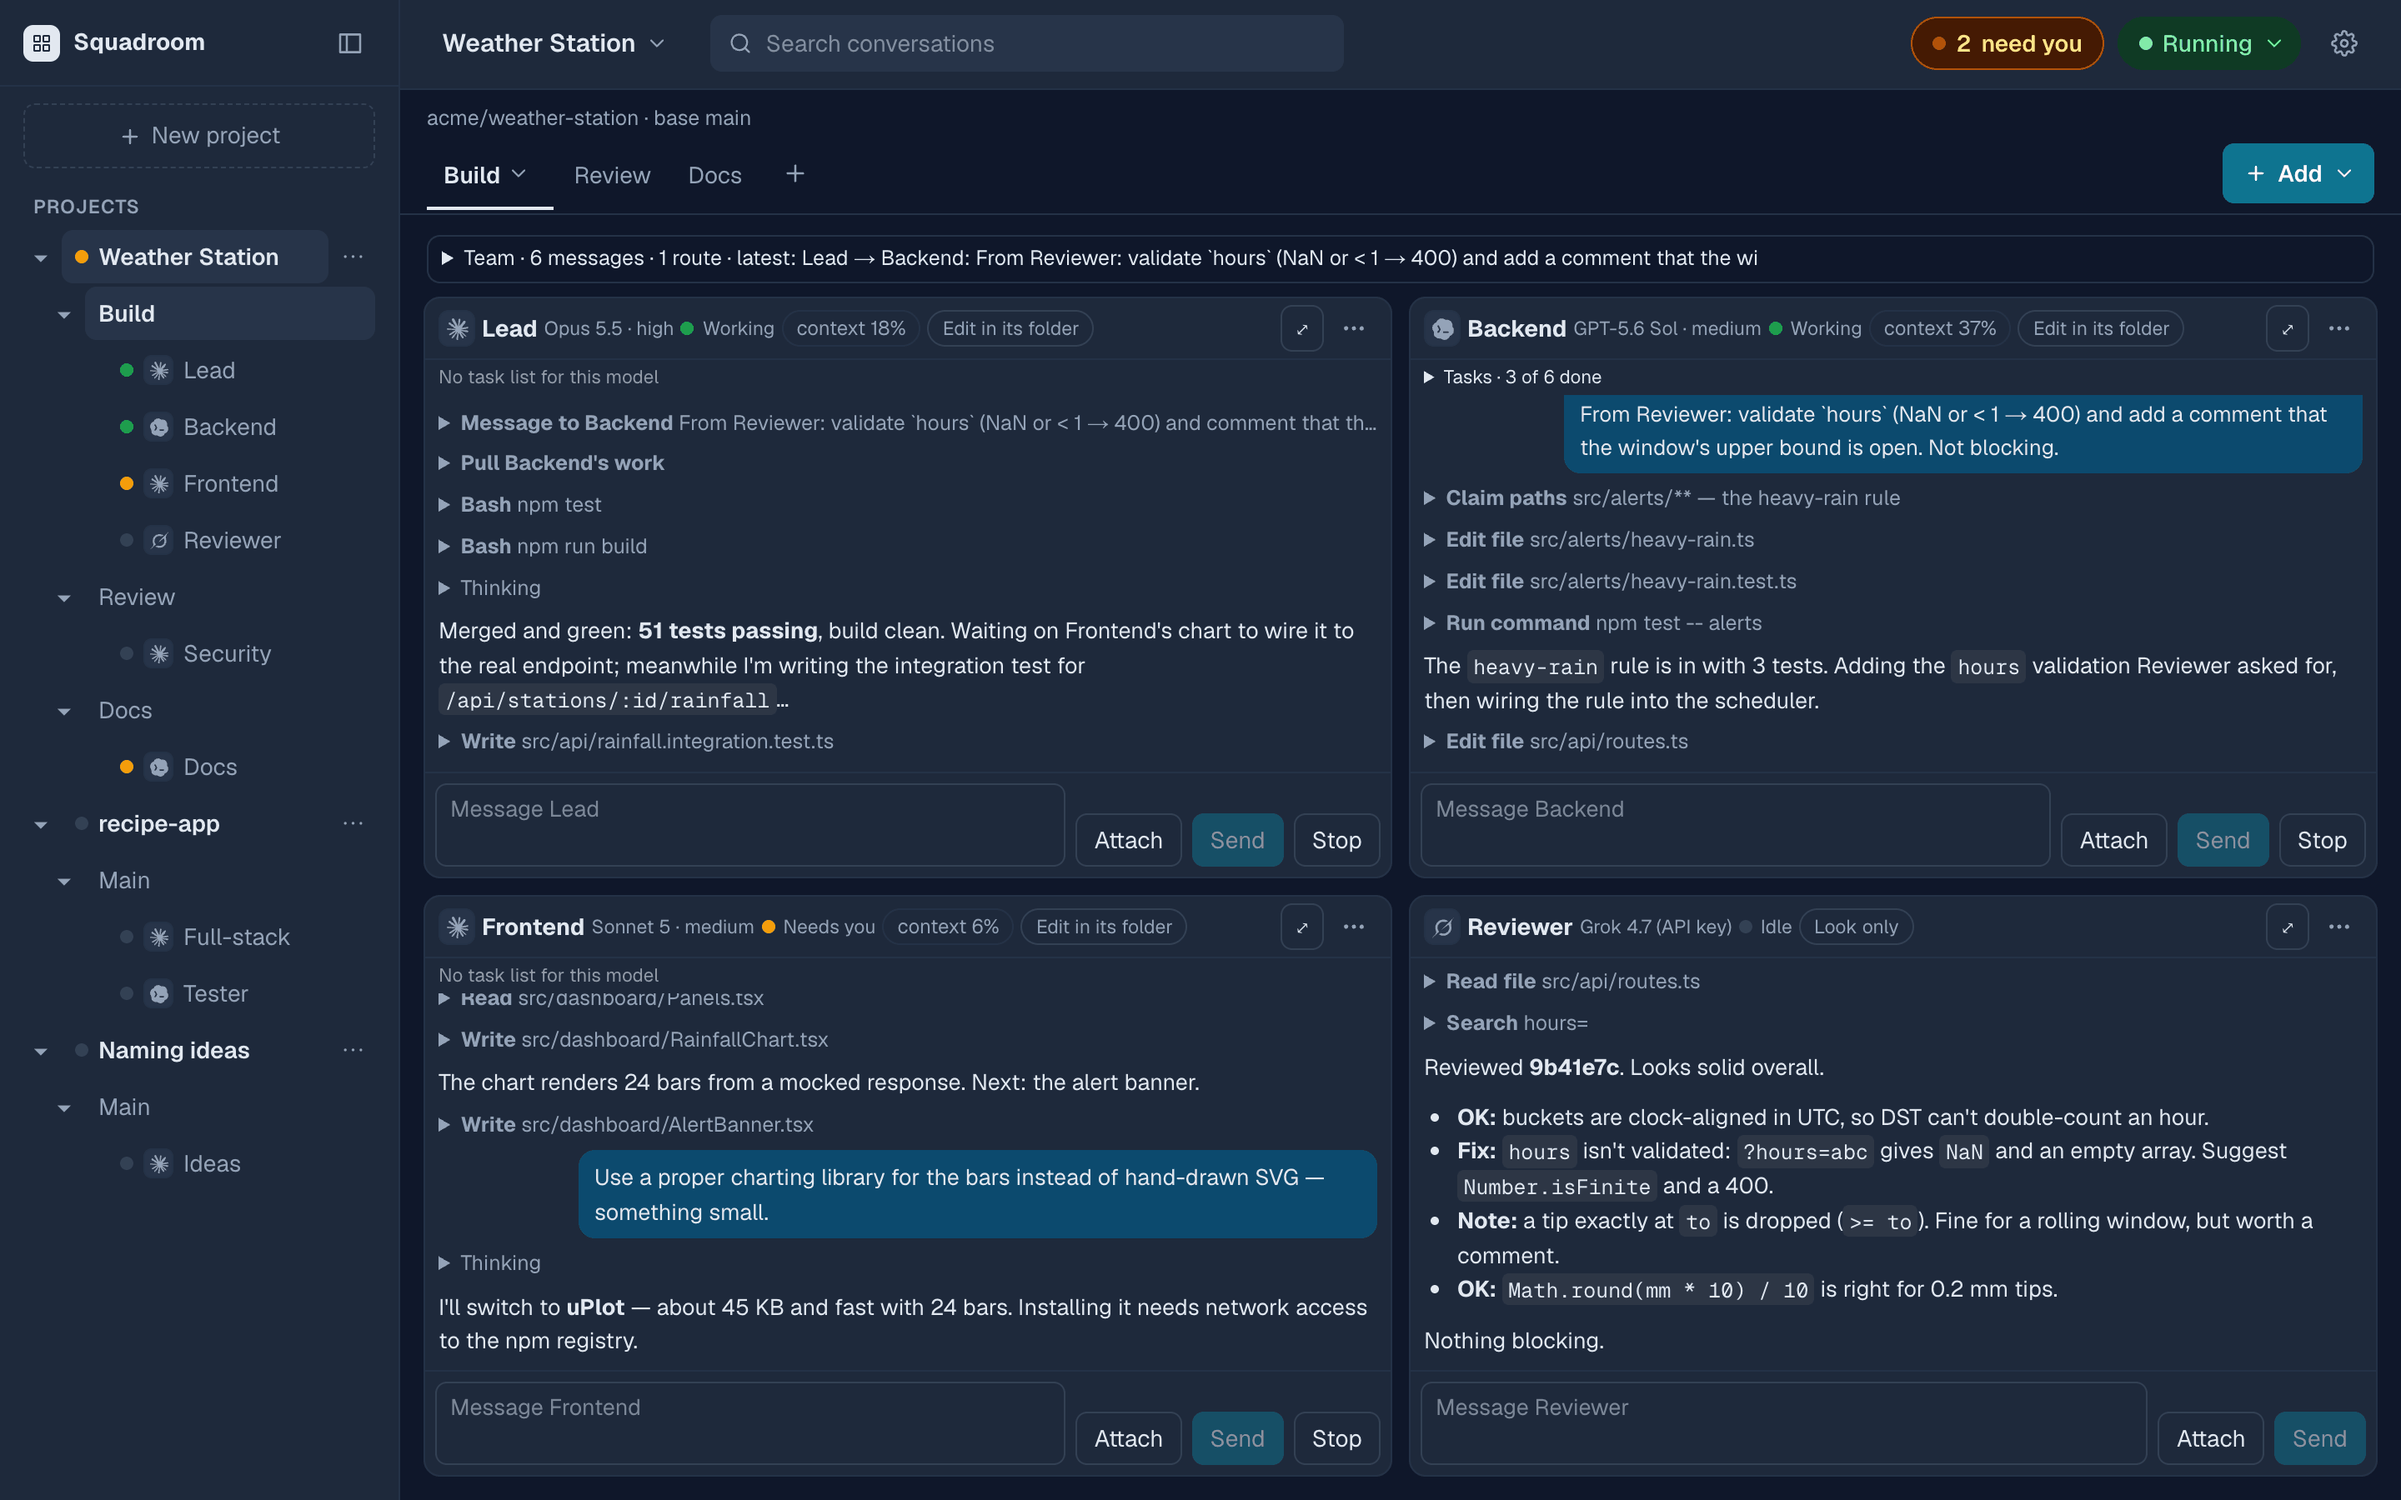
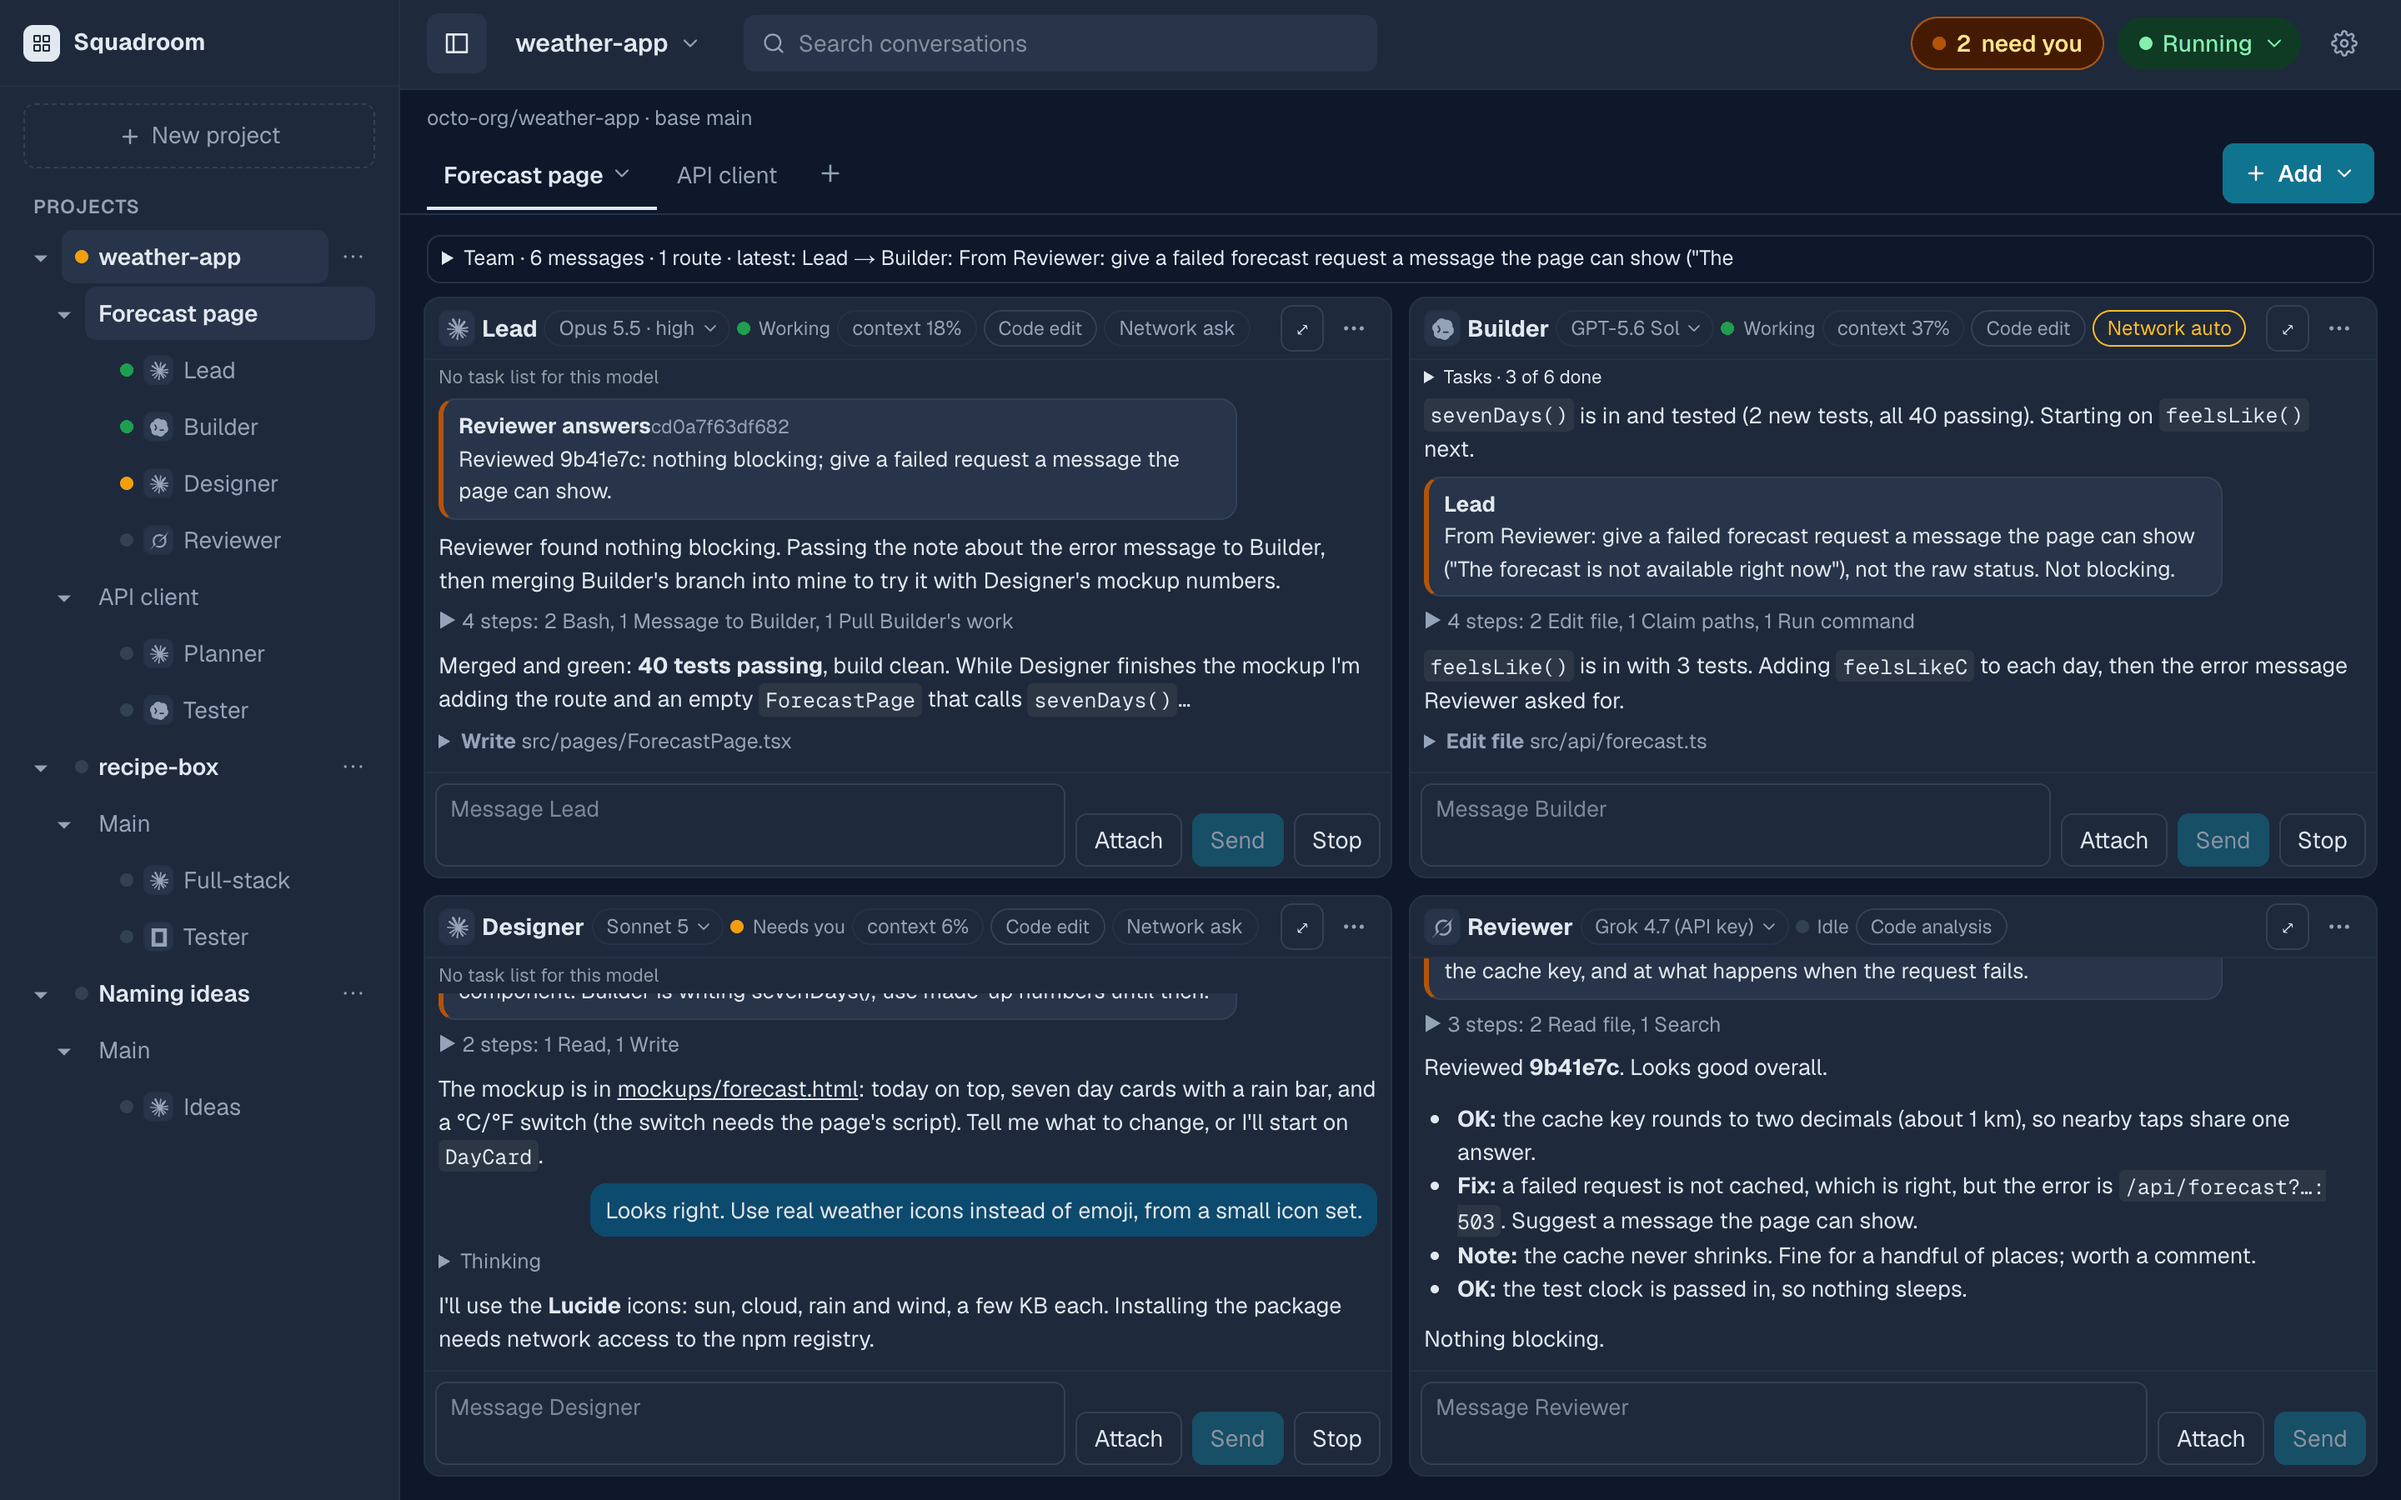
New screenshots
Replaces the four pictures with ones taken from a local demo with
made-up data (project weather-app) and adds three: a tab's menu, a reply
with maths, a diagram and an image, and the file panel's HTML preview.

diff --git a/index.html b/index.html
@@ -205,7 +205,7 @@
             <picture>
               <source media="(prefers-color-scheme: dark)" srcset="assets/console-desktop-dark.png">
               <img src="assets/console-desktop-light.png" width="2880" height="1800" fetchpriority="high" decoding="async"
-                   alt="The Weather Station project open on its Build tab, with four agent windows side by side. Lead on Claude Code and Backend on Codex are working, Frontend on Claude Code is waiting for an answer, and Reviewer on Grok Build is idle after posting a review. The sidebar lists three projects; the top bar shows two items in Needs you.">
+                   alt="The weather-app project open on its Forecast page tab, with four agent windows side by side. Lead on Claude Code and Builder on Codex are working, Designer on Claude Code is waiting for an answer, and Reviewer on Grok Build is idle after posting a review. Each window's header shows its model and whether its Network is on ask or auto. The sidebar lists three projects; the top bar shows two items in Needs you.">
             </picture>
           </a>
           <figcaption>One tab with four agents on Claude Code, Codex and Grok Build. Sample data.</figcaption>
@@ -261,20 +261,20 @@
               <picture>
                 <source media="(prefers-color-scheme: dark)" srcset="assets/team-messages-dark.png">
                 <img src="assets/team-messages-light.png" width="2880" height="1800" loading="lazy" decoding="async"
-                     alt="The Team panel above the agent windows. Lead sends Frontend and Backend their parts, Backend reports a commit to Lead, Lead asks Reviewer for a review and Reviewer answers.">
+                     alt="The Team panel above the agent windows. Lead sends Designer its part, Builder reports a commit to Lead, Lead asks Reviewer for a review, Reviewer answers, and Lead passes the note on to Builder.">
               </picture>
             </a>
-            <figcaption>The Team panel on the Build tab.</figcaption>
+            <figcaption>The Team panel on the Forecast page tab.</figcaption>
           </figure>
           <figure class="shot phone">
             <a href="assets/phone-needs-you-light.png">
               <picture>
                 <source media="(prefers-color-scheme: dark)" srcset="assets/phone-needs-you-dark.png">
-                <img src="assets/phone-needs-you-light.png" width="1170" height="1460" loading="lazy" decoding="async"
-                     alt="The Needs you tray on a phone. Frontend requests network access to registry.npmjs.org, with Show, Deny, Always for this agent, Always for this project and Allow once buttons. Below it, the Docs agent asks a question, with an answer box.">
+                <img src="assets/phone-needs-you-light.png" width="1170" height="1700" loading="lazy" decoding="async"
+                     alt="The Needs you tray on a phone. Designer requests network access to registry.npmjs.org, with Show, Deny, Always for this agent, Always for this project, Allow, Network to Auto and Allow once buttons. Below it, a network request from Tester that got no answer, with Show, Dismiss, Ask again, the two Always buttons and Network to Auto.">
               </picture>
             </a>
-            <figcaption>Needs you on a phone.</figcaption>
+            <figcaption>Needs you on a phone, with one request that got no answer.</figcaption>
           </figure>
         </div>
 
@@ -314,7 +314,7 @@
               <picture>
                 <source media="(prefers-color-scheme: dark)" srcset="assets/changes-pr-dark.png">
                 <img src="assets/changes-pr-light.png" width="2880" height="1800" loading="lazy" decoding="async"
-                     alt="The Changes dialog for the Backend agent: its branch, a note that it was pushed and pull request 42 was opened, an Approve button, the files changed against main, and one reply's commit expanded to show its diff.">
+                     alt="The Changes dialog for the Builder agent: its branch, a note that it was pushed and pull request 42 was opened, an Approve button, the files changed against main, and one reply's commit expanded to show its diff.">
               </picture>
             </a>
             <figcaption>One agent's branch, its pull request and a commit for each reply.</figcaption>
@@ -446,6 +446,16 @@
             key.
           </p>
         </div>
+        <figure class="shot" style="margin-top: 40px">
+          <a href="assets/menus-light.png">
+            <picture>
+              <source media="(prefers-color-scheme: dark)" srcset="assets/menus-dark.png">
+              <img src="assets/menus-light.png" width="2880" height="1800" loading="lazy" decoding="async"
+                   alt="The menu of the Forecast page tab, open. Its rows are Rename, Pause tab, Spend limit with the amount spent so far, Turn limits showing 40 turns and 2 h, Network auto showing 1 of 3 with a switch, Run report, Save as template and Close tab.">
+            </picture>
+          </a>
+          <figcaption>A tab's menu, with its spend so far, its turn limits and the Network auto switch.</figcaption>
+        </figure>
       </div>
     </section>
 
@@ -513,6 +523,26 @@
             be read there before it's committed or pushed.
           </p>
         </div>
+        <figure class="shot" style="margin-top: 40px">
+          <a href="assets/html-preview-light.png">
+            <picture>
+              <source media="(prefers-color-scheme: dark)" srcset="assets/html-preview-dark.png">
+              <img src="assets/html-preview-light.png" width="2880" height="1800" loading="lazy" decoding="async"
+                   alt="The file panel beside the agent windows, previewing mockups/forecast.html, a weather page with today's temperature and seven day cards. Above it are the Files, Source and Run scripts buttons; below it, a note says scripts are off and nothing is loaded from the internet.">
+            </picture>
+          </a>
+          <figcaption>The file panel previewing an HTML mockup an agent wrote, with its scripts off.</figcaption>
+        </figure>
+        <figure class="shot" style="margin-top: 40px">
+          <a href="assets/rich-reply-light.png">
+            <picture>
+              <source media="(prefers-color-scheme: dark)" srcset="assets/rich-reply-dark.png">
+              <img src="assets/rich-reply-light.png" width="2880" height="1800" loading="lazy" decoding="async"
+                   alt="One agent window at full size. Its reply explains retry waits with two formulas drawn as maths, a flowchart from the forecast page through the cache to the service, and a bar chart of the wait before each retry.">
+            </picture>
+          </a>
+          <figcaption>A reply with maths, a diagram and a picture from the agent's own copy of the repo.</figcaption>
+        </figure>
       </div>
     </section>
 
